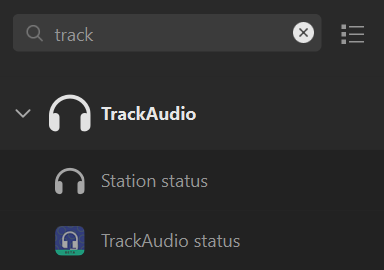
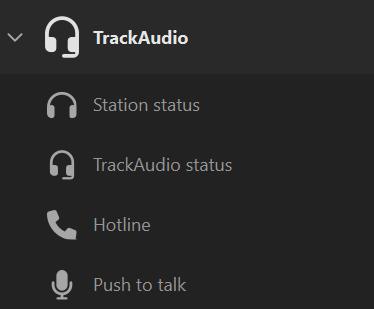
Update documentation

diff --git a/README.md b/README.md
@@ -1,33 +1,58 @@
 # TrackAudio buttons for StreamDeck
 
-This StreamDeck plugin provides buttons to display the current status of Tx, Rx, and Xc buttons in
-[TrackAudio](https://github.com/pierr3/TrackAudio).
+This StreamDeck plugin provides actions to interact with [TrackAudio](https://github.com/pierr3/TrackAudio).
+
+| Action            | Description                                                                                                                |
+| ----------------- | -------------------------------------------------------------------------------------------------------------------------- |
+| Station status    | Shows the current RX, TX, XC, or XCA for a specific station. Pressing the action toggles specified state for that station. |
+| TrackAudio status | Shows the current state of the connection to TrackAudio from StreamDeck.                                                   |
+| Hotline           | Switches active TX between two stations, typically a primary controlling position and a secondary hotline position.        |
+| Push to talk      | Triggers TX on all TX frequencies, as if pressing the push to talk key configured in TrackAudio.                           |
 
 After installation the plugin actions are available under the TrackAudio category:
 
 ![Screenshot of the StreamDeck profile UI with the categories filtered to "track"](docs/images/streamdeck-category.png)
 
-## Configuring a station status button
+## Configuring a station status action
 
-The station status button displays the current status of a single station's button in TrackAudio, including
+The station status action displays the current status of a single station's button in TrackAudio, including
 whether communication is currently active.
 
 ![Screenshot of the LMT_GND station position configured in TrackAudio for receive (Rx)](docs/images/trackAudio.png)
 
-For example, to display status of the Rx button for LMT_GND, as shown in the image above, configure the
-station status button like this:
+For example, to display status of the Rx button for `LMT_GND`, as shown in the image above, configure the
+station status action like this:
 
-![Screenshot of a station status button configuration, with callsign set to LMT_GND, RX selected, and three custom images specified for the three states](docs/images/stationStatus.png)
+![Screenshot of a station status button configuration, with callsign set to LMT_GND, RX selected, and three custom images specified for the three states](docs/images/station-status.png)
+
+### Station status settings
 
 | Setting       | Description                                                                                      |
 | ------------- | ------------------------------------------------------------------------------------------------ |
 | Callsign      | The callsign for the station you want to display status for. Required.                           |
-| Listen to     | What status to display on the button, either Rx, Tx, or XC. Required.                            |
+| Listen to     | What status to display on the button, either RX, TX, XC, or XCA. Required.                       |
 | Not listening | The image to display when the station is not currently active. Optional, defaults to black.      |
 | Listening     | The image to display when the station is active. Optional, defaults to green.                    |
 | Active comms  | The image to display when a transmission is actively taking place. Optional, defaults to orange. |
 
-## Configuring a TrackAudio status button
+## Configuring a TrackAudio status action
 
-The TrackAudio status button shows the status of the connection between StreamDeck and TrackAudio. Simply
-add the button to your profile and, optionally, configure an image for the disconnected and connected states.
+The TrackAudio status action shows the status of the connection between StreamDeck and TrackAudio. Simply
+add the action to your profile and, optionally, configure an image for the disconnected and connected states.
+
+## Configuring a hotline action
+
+The hotline action provides a quick way to toggle between two stations for voice transmissions. Start by adding
+your primary station in TrackAudio with XCA enabled and the hotline station in TrackAudio with RX enabled.
+
+## Hotline action settings
+
+| Setting          | Description                                                                                                                                                                                                                   |
+| ---------------- | ----------------------------------------------------------------------------------------------------------------------------------------------------------------------------------------------------------------------------- |
+| Primary callsign | The callsign you are actively controlling, for example `SEA_CTR`. Required.                                                                                                                                                   |
+| Hotline callsign | The callsign for the hotline, for example `ZOA-ZSE`. Required.                                                                                                                                                                |
+| Listening        | The image to display when listening to the hotline frequency. Optional, defaults to blue.                                                                                                                                     |
+| Receiving        | The image to display when receiving a transmission on the hotline frequency. Optional, defaults to green.                                                                                                                     |
+| Hotline active   | The image to display when transmitting on the hotline frequency. Optional, defaults to orange.                                                                                                                                |
+| Both active      | The image to display when both the primary and hotline and frequencies are the active frequency. This should never happen, as it means your voice transmissions will get sent to both frequencies. Optional, defaults to red. |
+| Neither active   | The iamge to display when neither the primary nor the hotline frequencies have TX enabled. Optional, defaults to black.                                                                                                       |
